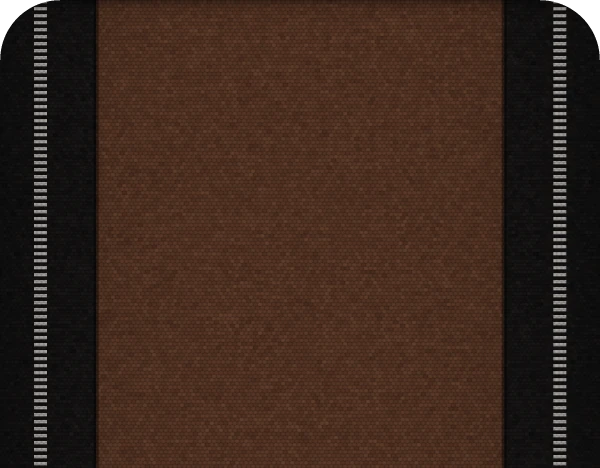
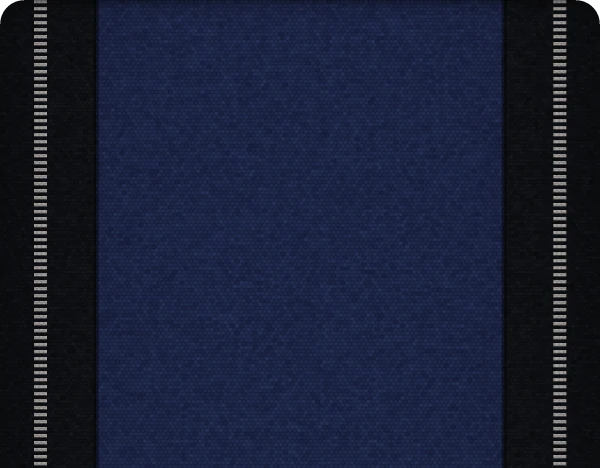
Second Chair: navy Watch band, with smaller corners

diff --git a/second-chair/_docs/devices/band.py b/second-chair/_docs/devices/band.py
@@ -1,5 +1,5 @@
 """A woven loop band for the Apple Watch Ultra on the home page, after Apple's Trail Loop: a knitted centre in
-heathered brown, near-black edges each carrying a dashed line of light stitching, and a softly squared end.
+heathered navy, near-black edges each carrying a dashed line of light stitching, and a softly squared end.
 
 The texture is built stitch by stitch (each a small rounded bump, with per-stitch variation in the yarn's tone),
 then lit gently across the width as the band curves over the wrist. No fade: the band is solid to its end.
@@ -30,9 +30,9 @@ cell_tone = rng.normal(0, 1, (int(row.max()) + 2, int(cx.max()) + 2))
 tone = cell_tone[row.astype(int), cx.astype(int)]
 
 # Display (sRGB) values, as in Apple's photograph.
-brown = np.array([0.27, 0.16, 0.11])
-brown_hi = np.array([0.36, 0.23, 0.16])
-black = np.array([0.075, 0.07, 0.068])
+brown = np.array([0.09, 0.12, 0.24])      # navy
+brown_hi = np.array([0.14, 0.18, 0.33])
+black = np.array([0.06, 0.065, 0.08])
 stitch = np.array([0.74, 0.72, 0.70])
 
 heather = np.clip(.5 + .2 * tone, 0, 1)[..., None]
@@ -55,8 +55,8 @@ col = np.where(seam[..., None], col * .55, col)
 curve = 1 - .3 * (2 * u - 1) ** 4
 col = col * curve[..., None]
 
-# Shape: straight sides, a softly squared free end (radius ~10% of the width).
-r = .1 * w
+# Shape: straight sides, a squared free end with small corners (radius ~4% of the width).
+r = .04 * w
 dx = np.maximum(np.maximum(r - xs, xs - (w - 1 - r)), 0)
 dy = np.maximum(r - ys, 0)
 inside = np.hypot(dx, dy) <= r
